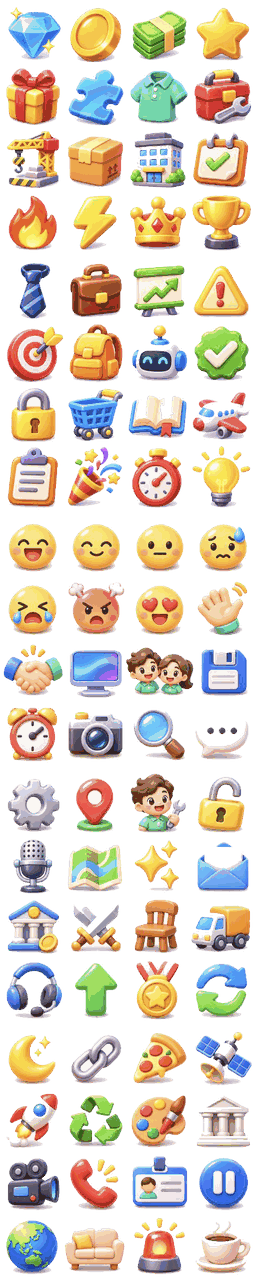
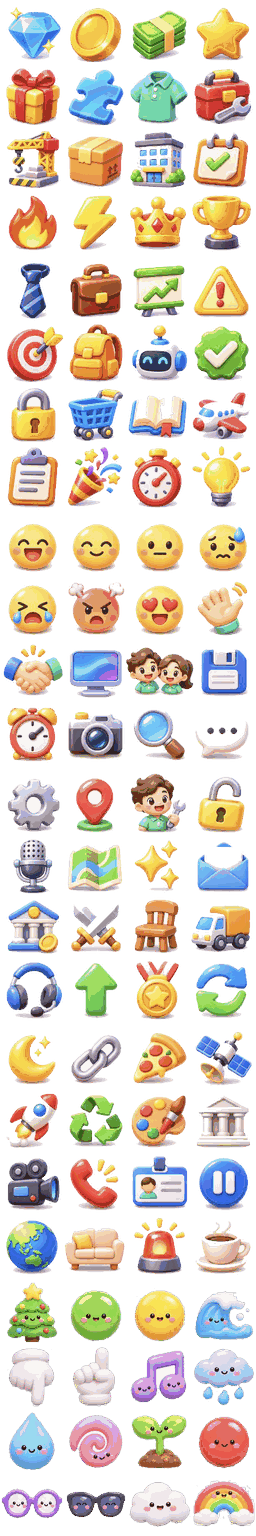
v3.12: 유아틱 아이콘 6번째 시트(🎄🟢🟡🌊👇👆 등 16종), gi.png 24행, Jua 라이선스 표기
Claude-Session: https://claude.ai/code/session_01Cv29e3NfFuCjychukHjqmT

diff --git a/index.html b/index.html
@@ -1859,12 +1859,12 @@ body{font-family:var(--b);letter-spacing:-.15px}
 #load .s{color:#2a2a6a!important;font-weight:900!important}
 #ldTipCard{background:rgba(255,255,255,.8)!important;border:1.5px solid #fff!important}
 #load #ldTip{color:#2a2a5a!important}
-#ldCart{width:40px!important;height:40px!important;top:-10px!important;background:url(gi.png) 33.333% 10.5263%/400% 2000% no-repeat;filter:drop-shadow(0 3px 3px rgba(0,0,0,.3))!important}
+#ldCart{width:40px!important;height:40px!important;top:-10px!important;background:url(gi.png) 33.333% 8.6957%/400% 2400% no-repeat;filter:drop-shadow(0 3px 3px rgba(0,0,0,.3))!important}
 #ldCart>*{display:none!important}
 #ldDoor{display:none!important}
 /* v3.12: 상단 HUD 아이콘도 같은 그림으로 — 돈(동전)·보석·별 */
-#cashPill>svg.ic{display:none!important}#cashPill::before{content:"";flex:none;width:26px;height:26px;background:url(gi.png) 33.333% 0/400% 2000% no-repeat;filter:drop-shadow(0 1px 1px rgba(0,0,0,.2))}
-#gemPill .ci{display:none!important}#gemPill::before{content:"";flex:none;width:24px;height:24px;background:url(gi.png) 0 0/400% 2000% no-repeat}
+#cashPill>svg.ic{display:none!important}#cashPill::before{content:"";flex:none;width:26px;height:26px;background:url(gi.png) 33.333% 0/400% 2400% no-repeat;filter:drop-shadow(0 1px 1px rgba(0,0,0,.2))}
+#gemPill .ci{display:none!important}#gemPill::before{content:"";flex:none;width:24px;height:24px;background:url(gi.png) 0 0/400% 2400% no-repeat}
 #v262Go,#tStart{letter-spacing:.5px}
 #modal #mbox #v262Go.hubCta,#modal #mbox #dayGo{background:linear-gradient(#ffe36b,#ffb020 60%,#f39a0a)!important;box-shadow:inset 0 3px 0 rgba(255,255,255,.7),0 6px 0 #b86400,0 12px 22px rgba(180,100,0,.35)!important;color:#fff!important;text-shadow:0 2px 0 #a85a00!important;border:3px solid #fff!important}
 #load .ldMid{flex:1 1 auto!important;justify-content:flex-end!important;padding-bottom:calc(env(safe-area-inset-bottom,0px) + 7vh)!important}
@@ -7110,7 +7110,7 @@ function ftueOn(){ return !window.__NOFTUE && S.day===0 && !(S.ftue&&S.ftue.done
   if(S.ftueGo&&S.day>=1&&!(S.ftue&&S.ftue.done)){ S.ftue={done:1}; setTimeout(()=>{ try{ bigBanner('🔓 메뉴가 열렸어요','업그레이드 · 직원 · 미션으로 매장을 키워보세요'); snd('level_up',0.5,1.1); }catch(_){} },400); try{ save(); }catch(_){} }
   return _s.apply(this,arguments); }; })();
 try{ const st=document.createElement('style'); st.textContent='body.ftue #bbar,body.ftue #shopBtn,body.ftue #branchBtn,body.ftue #camctl,body.ftue #saveChip,body.ftue #intBtn,body.ftue #back{visibility:hidden!important;pointer-events:none!important}'+
-  '#ftArrow{position:fixed;left:0;top:0;z-index:6;pointer-events:none;font-size:38px;line-height:1;transform:translate(-50%,-100%);filter:drop-shadow(0 3px 2px rgba(0,0,0,.45));display:none}#ftArrow i{display:block;font-style:normal;animation:ftb .6s ease-in-out infinite alternate}@keyframes ftb{from{transform:translateY(0)}to{transform:translateY(-12px)}}'+
+  '#ftArrow .gi{animation:none!important}#ftArrow{position:fixed;left:0;top:0;z-index:6;pointer-events:none;font-size:38px;line-height:1;transform:translate(-50%,-100%);filter:drop-shadow(0 3px 2px rgba(0,0,0,.45));display:none}#ftArrow i{display:block;font-style:normal;animation:ftb .6s ease-in-out infinite alternate}@keyframes ftb{from{transform:translateY(0)}to{transform:translateY(-12px)}}'+
   '#mbox #dayGo{position:sticky;bottom:0;z-index:3}'+'#ftHint{position:fixed;left:50%;top:calc(env(safe-area-inset-top) + 174px);transform:translateX(-50%);z-index:6;pointer-events:none;background:#ffd23f;color:#3a2600;font:900 15px var(--b);padding:9px 16px;border-radius:20px;box-shadow:0 4px 0 #b88a00;width:-webkit-max-content;width:max-content;max-width:calc(100vw - 20px);box-sizing:border-box;white-space:normal;line-height:1.25;text-align:center;word-break:keep-all;overflow-wrap:anywhere;display:none}';
   document.head.appendChild(st);
   const a=document.createElement('div'); a.id='ftArrow'; a.innerHTML='<i>👇</i>'; document.body.appendChild(a);
@@ -7243,7 +7243,7 @@ try{ const st=document.createElement('style'); st.textContent='#v311g{position:f
   ];
   GD.L.forEach(function(s,i){ if(X[i]) Object.assign(s,X[i]); });
   const st=document.createElement('style'); st.textContent=
-    '#v312hand{position:fixed;z-index:8;pointer-events:none;font-size:34px;line-height:1;display:none;filter:drop-shadow(0 3px 3px rgba(0,0,0,.35));animation:v312b .7s ease-in-out infinite}@keyframes v312b{50%{translate:0 -10px}}'+
+    '#v312hand .gi{width:42px!important;height:42px!important}#v312hand{position:fixed;z-index:8;pointer-events:none;font-size:34px;line-height:1;display:none;filter:drop-shadow(0 3px 3px rgba(0,0,0,.35));animation:v312b .7s ease-in-out infinite}@keyframes v312b{50%{translate:0 -10px}}'+
     '.v312ring{outline:3px solid #ffd23f!important;outline-offset:2px;box-shadow:0 0 0 6px rgba(255,210,63,.35)!important;animation:v312r 1s ease-in-out infinite!important}@keyframes v312r{50%{outline-color:#fff3b0;box-shadow:0 0 0 10px rgba(255,210,63,.15)}}'+
     '#v312card{position:fixed;left:50%;transform:translateX(-50%);z-index:9;width:min(88vw,330px);padding:10px 12px 11px;border-radius:16px;background:#fffaf0;border:2px solid #f0c25a;box-shadow:0 8px 22px rgba(40,25,5,.28);font:800 12.5px/1.45 var(--b);color:#4a3418;display:none;animation:v312in .35s cubic-bezier(.2,1.4,.4,1)}@keyframes v312in{from{opacity:0;translate:0 -12px}}'+
     '#v312card h5{margin:0 0 3px;font:900 11px var(--b);color:#c07a10;letter-spacing:.3px}#v312card b{display:block;font:900 14.5px var(--b);color:#2a1a08;margin-bottom:3px}#v312card .tm{margin-top:6px;padding:5px 8px;border-radius:10px;background:#fff1cc;font:800 11.5px/1.4 var(--b);color:#6a4a10}#v312card .ok{margin-top:8px;display:flex;gap:6px}#v312card .ok button{flex:1;min-height:36px;border:0;border-radius:11px;font:900 13px var(--b);color:#fff;background:linear-gradient(#ffc43a,#f09a10);box-shadow:0 3px 0 #b86a00}#v312card .ok button.gy{background:#e8ddc8;color:#6a5030;box-shadow:0 3px 0 #c9b896}'+
@@ -7357,7 +7357,7 @@ try{ const st=document.createElement('style'); const I=(c,r)=>'background:url(ui
   '#v285brBtn>svg{display:none!important}#v285brBtn::before{content:"";display:block;width:30px;height:30px;margin:0 auto;'+I(2,2)+'}';
   document.head.appendChild(st); }catch(e){}
 /* v3.12: 이모지 → 게임 그림 아이콘(gi.png 4×4, ChatGPT). 창(svgify)·토스트·HUD·말풍선 글자 속 이모지를 같은 화풍 그림으로 바꾼다 */
-var GI={'💎':[0,0],'💜':[0,0],'🪙':[1,0],'💵':[2,0],'💰':[2,0],'💲':[2,0],'⭐':[3,0],'🌟':[3,0],'🎁':[0,1],'🧩':[1,1],'👕':[2,1],'🔧':[3,1],'🛠':[3,1],'🛠':[3,1],
+var GI={'🎄':[0,20],'🟢':[1,20],'🟡':[2,20],'🌊':[3,20],'👇':[0,21],'👆':[1,21],'♪':[2,21],'🎵':[2,21],'🎶':[2,21],'🌧':[3,21],'🌧':[3,21],'💧':[0,22],'🌀':[1,22],'🌱':[2,22],'🔴':[3,22],'👓':[0,23],'🕶':[1,23],'🕶':[1,23],'☁':[2,23],'☁':[2,23],'🌈':[3,23],'💎':[0,0],'💜':[0,0],'🪙':[1,0],'💵':[2,0],'💰':[2,0],'💲':[2,0],'⭐':[3,0],'🌟':[3,0],'🎁':[0,1],'🧩':[1,1],'👕':[2,1],'🔧':[3,1],'🛠':[3,1],'🛠':[3,1],
   '🏗':[0,2],'🏗':[0,2],'📦':[1,2],'🏢':[2,2],'🏬':[2,2],'🏪':[2,2],'📅':[3,2],'📆':[3,2],'🗓':[3,2],'🔥':[0,3],'⚡':[1,3],'⚡':[1,3],'👑':[2,3],'🏆':[3,3],
   '👔':[0,4],'💼':[1,4],'📈':[2,4],'📊':[2,4],'⚠':[3,4],'⚠':[3,4],'🎯':[0,5],'🎒':[1,5],'🤖':[2,5],'✅':[3,5],'🔒':[0,6],'🛒':[1,6],'🛍':[1,6],'🛍':[1,6],'📖':[2,6],'📚':[2,6],'✈':[3,6],'✈':[3,6],
   '📋':[0,7],'📝':[0,7],'🎉':[1,7],'🎊':[1,7],'⏱':[2,7],'⏱':[2,7],'⏳':[2,7],'💡':[3,7],
@@ -7377,8 +7377,8 @@ var GI={'💎':[0,0],'💜':[0,0],'🪙':[1,0],'💵':[2,0],'💰':[2,0],'💲':
   '📘':[2,6],'📄':[0,7],'📂':[0,7],'🧾':[0,7],'🧳':[1,5],'🙏':[3,9],'🔋':[1,15],'💳':[2,0],'💸':[2,0],'❤':[2,9],'❤':[2,9],'💗':[2,9],'💔':[0,9],'❌':[3,4],'⛔':[3,4],'🙅':[3,4],'🧰':[3,1],'👜':[1,5],'⌚':[2,7],'👍':[3,9],'✋':[3,9],'🙈':[3,9],'🎓':[3,3],'📣':[2,19],'🧪':[3,7],'🔬':[3,7],'🏷':[2,18],'🏷':[2,18],'🚶':[2,10],'🧍':[2,10],'🗼':[0,19],'🗽':[0,19],'🛂':[3,6],'🛡':[0,6],'🛡':[0,6],'⚖':[0,14],'⚖':[0,14],'🗑':[1,2],'🗑':[1,2],'🚪':[2,2],'🔌':[1,15]};
 var GIK=Object.keys(GI).sort(function(a,b){ return b.length-a.length; });
 var GIRE=new RegExp('('+GIK.map(function(k){ return k.replace(/[.*+?^${}()|[\]\\]/g,'\\$&'); }).join('|')+')\\uFE0F?','g');
-function giSpan(k){ var p=GI[k]||GI[k.replace(//g,'')]; return '<i class="gi" style="background-position:'+(p[0]*100/3).toFixed(3)+'% '+(p[1]*100/19).toFixed(4)+'%"></i>'; }
-try{ const st=document.createElement('style'); st.textContent='.psn .gi,.psn .v29i,em .gi,small .gi,.tg .gi{width:1.05em!important;height:1.05em!important;vertical-align:-.2em}.psn{display:inline-flex!important;align-items:center;gap:2px}.gi{display:inline-block;width:1.2em;height:1.2em;vertical-align:-.24em;margin:0 .06em;background-image:url(gi.png);background-size:400% 2000%;background-repeat:no-repeat;font-style:normal;flex:none}'; document.head.appendChild(st); }catch(e){}
+function giSpan(k){ var p=GI[k]||GI[k.replace(//g,'')]; return '<i class="gi" style="background-position:'+(p[0]*100/3).toFixed(3)+'% '+(p[1]*100/23).toFixed(4)+'%"></i>'; }
+try{ const st=document.createElement('style'); st.textContent='.psn .gi,.psn .v29i,em .gi,small .gi,.tg .gi{width:1.05em!important;height:1.05em!important;vertical-align:-.2em}.psn{display:inline-flex!important;align-items:center;gap:2px}.gi{display:inline-block;width:1.2em;height:1.2em;vertical-align:-.24em;margin:0 .06em;background-image:url(gi.png);background-size:400% 2400%;background-repeat:no-repeat;font-style:normal;flex:none}'; document.head.appendChild(st); }catch(e){}
 (function(){ try{
   const SKIP={SCRIPT:1,STYLE:1,TEXTAREA:1,INPUT:1,CANVAS:1,svg:1,SVG:1,TITLE:1};
   function fixText(t){ try{ const v=t.nodeValue; if(!v||v.length>600) return; GIRE.lastIndex=0; if(!GIRE.test(v)) return; const p=t.parentNode; if(!p||SKIP[p.nodeName]||(p.closest&&p.closest('svg,[contenteditable],option,select,title'))) return;

diff --git a/tech.html b/tech.html
@@ -1859,12 +1859,12 @@ body{font-family:var(--b);letter-spacing:-.15px}
 #load .s{color:#2a2a6a!important;font-weight:900!important}
 #ldTipCard{background:rgba(255,255,255,.8)!important;border:1.5px solid #fff!important}
 #load #ldTip{color:#2a2a5a!important}
-#ldCart{width:40px!important;height:40px!important;top:-10px!important;background:url(gi.png) 33.333% 10.5263%/400% 2000% no-repeat;filter:drop-shadow(0 3px 3px rgba(0,0,0,.3))!important}
+#ldCart{width:40px!important;height:40px!important;top:-10px!important;background:url(gi.png) 33.333% 8.6957%/400% 2400% no-repeat;filter:drop-shadow(0 3px 3px rgba(0,0,0,.3))!important}
 #ldCart>*{display:none!important}
 #ldDoor{display:none!important}
 /* v3.12: 상단 HUD 아이콘도 같은 그림으로 — 돈(동전)·보석·별 */
-#cashPill>svg.ic{display:none!important}#cashPill::before{content:"";flex:none;width:26px;height:26px;background:url(gi.png) 33.333% 0/400% 2000% no-repeat;filter:drop-shadow(0 1px 1px rgba(0,0,0,.2))}
-#gemPill .ci{display:none!important}#gemPill::before{content:"";flex:none;width:24px;height:24px;background:url(gi.png) 0 0/400% 2000% no-repeat}
+#cashPill>svg.ic{display:none!important}#cashPill::before{content:"";flex:none;width:26px;height:26px;background:url(gi.png) 33.333% 0/400% 2400% no-repeat;filter:drop-shadow(0 1px 1px rgba(0,0,0,.2))}
+#gemPill .ci{display:none!important}#gemPill::before{content:"";flex:none;width:24px;height:24px;background:url(gi.png) 0 0/400% 2400% no-repeat}
 #v262Go,#tStart{letter-spacing:.5px}
 #modal #mbox #v262Go.hubCta,#modal #mbox #dayGo{background:linear-gradient(#ffe36b,#ffb020 60%,#f39a0a)!important;box-shadow:inset 0 3px 0 rgba(255,255,255,.7),0 6px 0 #b86400,0 12px 22px rgba(180,100,0,.35)!important;color:#fff!important;text-shadow:0 2px 0 #a85a00!important;border:3px solid #fff!important}
 #load .ldMid{flex:1 1 auto!important;justify-content:flex-end!important;padding-bottom:calc(env(safe-area-inset-bottom,0px) + 7vh)!important}
@@ -7110,7 +7110,7 @@ function ftueOn(){ return !window.__NOFTUE && S.day===0 && !(S.ftue&&S.ftue.done
   if(S.ftueGo&&S.day>=1&&!(S.ftue&&S.ftue.done)){ S.ftue={done:1}; setTimeout(()=>{ try{ bigBanner('🔓 메뉴가 열렸어요','업그레이드 · 직원 · 미션으로 매장을 키워보세요'); snd('level_up',0.5,1.1); }catch(_){} },400); try{ save(); }catch(_){} }
   return _s.apply(this,arguments); }; })();
 try{ const st=document.createElement('style'); st.textContent='body.ftue #bbar,body.ftue #shopBtn,body.ftue #branchBtn,body.ftue #camctl,body.ftue #saveChip,body.ftue #intBtn,body.ftue #back{visibility:hidden!important;pointer-events:none!important}'+
-  '#ftArrow{position:fixed;left:0;top:0;z-index:6;pointer-events:none;font-size:38px;line-height:1;transform:translate(-50%,-100%);filter:drop-shadow(0 3px 2px rgba(0,0,0,.45));display:none}#ftArrow i{display:block;font-style:normal;animation:ftb .6s ease-in-out infinite alternate}@keyframes ftb{from{transform:translateY(0)}to{transform:translateY(-12px)}}'+
+  '#ftArrow .gi{animation:none!important}#ftArrow{position:fixed;left:0;top:0;z-index:6;pointer-events:none;font-size:38px;line-height:1;transform:translate(-50%,-100%);filter:drop-shadow(0 3px 2px rgba(0,0,0,.45));display:none}#ftArrow i{display:block;font-style:normal;animation:ftb .6s ease-in-out infinite alternate}@keyframes ftb{from{transform:translateY(0)}to{transform:translateY(-12px)}}'+
   '#mbox #dayGo{position:sticky;bottom:0;z-index:3}'+'#ftHint{position:fixed;left:50%;top:calc(env(safe-area-inset-top) + 174px);transform:translateX(-50%);z-index:6;pointer-events:none;background:#ffd23f;color:#3a2600;font:900 15px var(--b);padding:9px 16px;border-radius:20px;box-shadow:0 4px 0 #b88a00;width:-webkit-max-content;width:max-content;max-width:calc(100vw - 20px);box-sizing:border-box;white-space:normal;line-height:1.25;text-align:center;word-break:keep-all;overflow-wrap:anywhere;display:none}';
   document.head.appendChild(st);
   const a=document.createElement('div'); a.id='ftArrow'; a.innerHTML='<i>👇</i>'; document.body.appendChild(a);
@@ -7243,7 +7243,7 @@ try{ const st=document.createElement('style'); st.textContent='#v311g{position:f
   ];
   GD.L.forEach(function(s,i){ if(X[i]) Object.assign(s,X[i]); });
   const st=document.createElement('style'); st.textContent=
-    '#v312hand{position:fixed;z-index:8;pointer-events:none;font-size:34px;line-height:1;display:none;filter:drop-shadow(0 3px 3px rgba(0,0,0,.35));animation:v312b .7s ease-in-out infinite}@keyframes v312b{50%{translate:0 -10px}}'+
+    '#v312hand .gi{width:42px!important;height:42px!important}#v312hand{position:fixed;z-index:8;pointer-events:none;font-size:34px;line-height:1;display:none;filter:drop-shadow(0 3px 3px rgba(0,0,0,.35));animation:v312b .7s ease-in-out infinite}@keyframes v312b{50%{translate:0 -10px}}'+
     '.v312ring{outline:3px solid #ffd23f!important;outline-offset:2px;box-shadow:0 0 0 6px rgba(255,210,63,.35)!important;animation:v312r 1s ease-in-out infinite!important}@keyframes v312r{50%{outline-color:#fff3b0;box-shadow:0 0 0 10px rgba(255,210,63,.15)}}'+
     '#v312card{position:fixed;left:50%;transform:translateX(-50%);z-index:9;width:min(88vw,330px);padding:10px 12px 11px;border-radius:16px;background:#fffaf0;border:2px solid #f0c25a;box-shadow:0 8px 22px rgba(40,25,5,.28);font:800 12.5px/1.45 var(--b);color:#4a3418;display:none;animation:v312in .35s cubic-bezier(.2,1.4,.4,1)}@keyframes v312in{from{opacity:0;translate:0 -12px}}'+
     '#v312card h5{margin:0 0 3px;font:900 11px var(--b);color:#c07a10;letter-spacing:.3px}#v312card b{display:block;font:900 14.5px var(--b);color:#2a1a08;margin-bottom:3px}#v312card .tm{margin-top:6px;padding:5px 8px;border-radius:10px;background:#fff1cc;font:800 11.5px/1.4 var(--b);color:#6a4a10}#v312card .ok{margin-top:8px;display:flex;gap:6px}#v312card .ok button{flex:1;min-height:36px;border:0;border-radius:11px;font:900 13px var(--b);color:#fff;background:linear-gradient(#ffc43a,#f09a10);box-shadow:0 3px 0 #b86a00}#v312card .ok button.gy{background:#e8ddc8;color:#6a5030;box-shadow:0 3px 0 #c9b896}'+
@@ -7357,7 +7357,7 @@ try{ const st=document.createElement('style'); const I=(c,r)=>'background:url(ui
   '#v285brBtn>svg{display:none!important}#v285brBtn::before{content:"";display:block;width:30px;height:30px;margin:0 auto;'+I(2,2)+'}';
   document.head.appendChild(st); }catch(e){}
 /* v3.12: 이모지 → 게임 그림 아이콘(gi.png 4×4, ChatGPT). 창(svgify)·토스트·HUD·말풍선 글자 속 이모지를 같은 화풍 그림으로 바꾼다 */
-var GI={'💎':[0,0],'💜':[0,0],'🪙':[1,0],'💵':[2,0],'💰':[2,0],'💲':[2,0],'⭐':[3,0],'🌟':[3,0],'🎁':[0,1],'🧩':[1,1],'👕':[2,1],'🔧':[3,1],'🛠':[3,1],'🛠':[3,1],
+var GI={'🎄':[0,20],'🟢':[1,20],'🟡':[2,20],'🌊':[3,20],'👇':[0,21],'👆':[1,21],'♪':[2,21],'🎵':[2,21],'🎶':[2,21],'🌧':[3,21],'🌧':[3,21],'💧':[0,22],'🌀':[1,22],'🌱':[2,22],'🔴':[3,22],'👓':[0,23],'🕶':[1,23],'🕶':[1,23],'☁':[2,23],'☁':[2,23],'🌈':[3,23],'💎':[0,0],'💜':[0,0],'🪙':[1,0],'💵':[2,0],'💰':[2,0],'💲':[2,0],'⭐':[3,0],'🌟':[3,0],'🎁':[0,1],'🧩':[1,1],'👕':[2,1],'🔧':[3,1],'🛠':[3,1],'🛠':[3,1],
   '🏗':[0,2],'🏗':[0,2],'📦':[1,2],'🏢':[2,2],'🏬':[2,2],'🏪':[2,2],'📅':[3,2],'📆':[3,2],'🗓':[3,2],'🔥':[0,3],'⚡':[1,3],'⚡':[1,3],'👑':[2,3],'🏆':[3,3],
   '👔':[0,4],'💼':[1,4],'📈':[2,4],'📊':[2,4],'⚠':[3,4],'⚠':[3,4],'🎯':[0,5],'🎒':[1,5],'🤖':[2,5],'✅':[3,5],'🔒':[0,6],'🛒':[1,6],'🛍':[1,6],'🛍':[1,6],'📖':[2,6],'📚':[2,6],'✈':[3,6],'✈':[3,6],
   '📋':[0,7],'📝':[0,7],'🎉':[1,7],'🎊':[1,7],'⏱':[2,7],'⏱':[2,7],'⏳':[2,7],'💡':[3,7],
@@ -7377,8 +7377,8 @@ var GI={'💎':[0,0],'💜':[0,0],'🪙':[1,0],'💵':[2,0],'💰':[2,0],'💲':
   '📘':[2,6],'📄':[0,7],'📂':[0,7],'🧾':[0,7],'🧳':[1,5],'🙏':[3,9],'🔋':[1,15],'💳':[2,0],'💸':[2,0],'❤':[2,9],'❤':[2,9],'💗':[2,9],'💔':[0,9],'❌':[3,4],'⛔':[3,4],'🙅':[3,4],'🧰':[3,1],'👜':[1,5],'⌚':[2,7],'👍':[3,9],'✋':[3,9],'🙈':[3,9],'🎓':[3,3],'📣':[2,19],'🧪':[3,7],'🔬':[3,7],'🏷':[2,18],'🏷':[2,18],'🚶':[2,10],'🧍':[2,10],'🗼':[0,19],'🗽':[0,19],'🛂':[3,6],'🛡':[0,6],'🛡':[0,6],'⚖':[0,14],'⚖':[0,14],'🗑':[1,2],'🗑':[1,2],'🚪':[2,2],'🔌':[1,15]};
 var GIK=Object.keys(GI).sort(function(a,b){ return b.length-a.length; });
 var GIRE=new RegExp('('+GIK.map(function(k){ return k.replace(/[.*+?^${}()|[\]\\]/g,'\\$&'); }).join('|')+')\\uFE0F?','g');
-function giSpan(k){ var p=GI[k]||GI[k.replace(//g,'')]; return '<i class="gi" style="background-position:'+(p[0]*100/3).toFixed(3)+'% '+(p[1]*100/19).toFixed(4)+'%"></i>'; }
-try{ const st=document.createElement('style'); st.textContent='.psn .gi,.psn .v29i,em .gi,small .gi,.tg .gi{width:1.05em!important;height:1.05em!important;vertical-align:-.2em}.psn{display:inline-flex!important;align-items:center;gap:2px}.gi{display:inline-block;width:1.2em;height:1.2em;vertical-align:-.24em;margin:0 .06em;background-image:url(gi.png);background-size:400% 2000%;background-repeat:no-repeat;font-style:normal;flex:none}'; document.head.appendChild(st); }catch(e){}
+function giSpan(k){ var p=GI[k]||GI[k.replace(//g,'')]; return '<i class="gi" style="background-position:'+(p[0]*100/3).toFixed(3)+'% '+(p[1]*100/23).toFixed(4)+'%"></i>'; }
+try{ const st=document.createElement('style'); st.textContent='.psn .gi,.psn .v29i,em .gi,small .gi,.tg .gi{width:1.05em!important;height:1.05em!important;vertical-align:-.2em}.psn{display:inline-flex!important;align-items:center;gap:2px}.gi{display:inline-block;width:1.2em;height:1.2em;vertical-align:-.24em;margin:0 .06em;background-image:url(gi.png);background-size:400% 2400%;background-repeat:no-repeat;font-style:normal;flex:none}'; document.head.appendChild(st); }catch(e){}
 (function(){ try{
   const SKIP={SCRIPT:1,STYLE:1,TEXTAREA:1,INPUT:1,CANVAS:1,svg:1,SVG:1,TITLE:1};
   function fixText(t){ try{ const v=t.nodeValue; if(!v||v.length>600) return; GIRE.lastIndex=0; if(!GIRE.test(v)) return; const p=t.parentNode; if(!p||SKIP[p.nodeName]||(p.closest&&p.closest('svg,[contenteditable],option,select,title'))) return;

diff --git a/tech-test.html b/tech-test.html
@@ -5657,7 +5657,7 @@ function ftueOn(){ return !window.__NOFTUE && S.day===0 && !(S.ftue&&S.ftue.done
   if(S.ftueGo&&S.day>=1&&!(S.ftue&&S.ftue.done)){ S.ftue={done:1}; setTimeout(()=>{ try{ bigBanner('🔓 메뉴가 열렸어요','업그레이드 · 직원 · 미션으로 매장을 키워보세요'); snd('level_up',0.5,1.1); }catch(_){} },400); try{ save(); }catch(_){} }
   return _s.apply(this,arguments); }; })();
 try{ const st=document.createElement('style'); st.textContent='body.ftue #bbar,body.ftue #shopBtn,body.ftue #branchBtn,body.ftue #camctl,body.ftue #saveChip,body.ftue #intBtn,body.ftue #back{visibility:hidden!important;pointer-events:none!important}'+
-  '#ftArrow{position:fixed;left:0;top:0;z-index:6;pointer-events:none;font-size:38px;line-height:1;transform:translate(-50%,-100%);filter:drop-shadow(0 3px 2px rgba(0,0,0,.45));display:none}#ftArrow i{display:block;font-style:normal;animation:ftb .6s ease-in-out infinite alternate}@keyframes ftb{from{transform:translateY(0)}to{transform:translateY(-12px)}}'+
+  '#ftArrow .gi{animation:none!important}#ftArrow{position:fixed;left:0;top:0;z-index:6;pointer-events:none;font-size:38px;line-height:1;transform:translate(-50%,-100%);filter:drop-shadow(0 3px 2px rgba(0,0,0,.45));display:none}#ftArrow i{display:block;font-style:normal;animation:ftb .6s ease-in-out infinite alternate}@keyframes ftb{from{transform:translateY(0)}to{transform:translateY(-12px)}}'+
   '#mbox #dayGo{position:sticky;bottom:0;z-index:3}'+'#ftHint{position:fixed;left:50%;top:calc(env(safe-area-inset-top) + 174px);transform:translateX(-50%);z-index:6;pointer-events:none;background:#ffd23f;color:#3a2600;font:900 15px var(--b);padding:9px 16px;border-radius:20px;box-shadow:0 4px 0 #b88a00;width:-webkit-max-content;width:max-content;max-width:calc(100vw - 20px);box-sizing:border-box;white-space:normal;line-height:1.25;text-align:center;word-break:keep-all;overflow-wrap:anywhere;display:none}';
   document.head.appendChild(st);
   const a=document.createElement('div'); a.id='ftArrow'; a.innerHTML='<i>👇</i>'; document.body.appendChild(a);
@@ -5790,7 +5790,7 @@ try{ const st=document.createElement('style'); st.textContent='#v311g{position:f
   ];
   GD.L.forEach(function(s,i){ if(X[i]) Object.assign(s,X[i]); });
   const st=document.createElement('style'); st.textContent=
-    '#v312hand{position:fixed;z-index:8;pointer-events:none;font-size:34px;line-height:1;display:none;filter:drop-shadow(0 3px 3px rgba(0,0,0,.35));animation:v312b .7s ease-in-out infinite}@keyframes v312b{50%{translate:0 -10px}}'+
+    '#v312hand .gi{width:42px!important;height:42px!important}#v312hand{position:fixed;z-index:8;pointer-events:none;font-size:34px;line-height:1;display:none;filter:drop-shadow(0 3px 3px rgba(0,0,0,.35));animation:v312b .7s ease-in-out infinite}@keyframes v312b{50%{translate:0 -10px}}'+
     '.v312ring{outline:3px solid #ffd23f!important;outline-offset:2px;box-shadow:0 0 0 6px rgba(255,210,63,.35)!important;animation:v312r 1s ease-in-out infinite!important}@keyframes v312r{50%{outline-color:#fff3b0;box-shadow:0 0 0 10px rgba(255,210,63,.15)}}'+
     '#v312card{position:fixed;left:50%;transform:translateX(-50%);z-index:9;width:min(88vw,330px);padding:10px 12px 11px;border-radius:16px;background:#fffaf0;border:2px solid #f0c25a;box-shadow:0 8px 22px rgba(40,25,5,.28);font:800 12.5px/1.45 var(--b);color:#4a3418;display:none;animation:v312in .35s cubic-bezier(.2,1.4,.4,1)}@keyframes v312in{from{opacity:0;translate:0 -12px}}'+
     '#v312card h5{margin:0 0 3px;font:900 11px var(--b);color:#c07a10;letter-spacing:.3px}#v312card b{display:block;font:900 14.5px var(--b);color:#2a1a08;margin-bottom:3px}#v312card .tm{margin-top:6px;padding:5px 8px;border-radius:10px;background:#fff1cc;font:800 11.5px/1.4 var(--b);color:#6a4a10}#v312card .ok{margin-top:8px;display:flex;gap:6px}#v312card .ok button{flex:1;min-height:36px;border:0;border-radius:11px;font:900 13px var(--b);color:#fff;background:linear-gradient(#ffc43a,#f09a10);box-shadow:0 3px 0 #b86a00}#v312card .ok button.gy{background:#e8ddc8;color:#6a5030;box-shadow:0 3px 0 #c9b896}'+
@@ -5904,7 +5904,7 @@ try{ const st=document.createElement('style'); const I=(c,r)=>'background:url(ui
   '#v285brBtn>svg{display:none!important}#v285brBtn::before{content:"";display:block;width:30px;height:30px;margin:0 auto;'+I(2,2)+'}';
   document.head.appendChild(st); }catch(e){}
 /* v3.12: 이모지 → 게임 그림 아이콘(gi.png 4×4, ChatGPT). 창(svgify)·토스트·HUD·말풍선 글자 속 이모지를 같은 화풍 그림으로 바꾼다 */
-var GI={'💎':[0,0],'💜':[0,0],'🪙':[1,0],'💵':[2,0],'💰':[2,0],'💲':[2,0],'⭐':[3,0],'🌟':[3,0],'🎁':[0,1],'🧩':[1,1],'👕':[2,1],'🔧':[3,1],'🛠':[3,1],'🛠':[3,1],
+var GI={'🎄':[0,20],'🟢':[1,20],'🟡':[2,20],'🌊':[3,20],'👇':[0,21],'👆':[1,21],'♪':[2,21],'🎵':[2,21],'🎶':[2,21],'🌧':[3,21],'🌧':[3,21],'💧':[0,22],'🌀':[1,22],'🌱':[2,22],'🔴':[3,22],'👓':[0,23],'🕶':[1,23],'🕶':[1,23],'☁':[2,23],'☁':[2,23],'🌈':[3,23],'💎':[0,0],'💜':[0,0],'🪙':[1,0],'💵':[2,0],'💰':[2,0],'💲':[2,0],'⭐':[3,0],'🌟':[3,0],'🎁':[0,1],'🧩':[1,1],'👕':[2,1],'🔧':[3,1],'🛠':[3,1],'🛠':[3,1],
   '🏗':[0,2],'🏗':[0,2],'📦':[1,2],'🏢':[2,2],'🏬':[2,2],'🏪':[2,2],'📅':[3,2],'📆':[3,2],'🗓':[3,2],'🔥':[0,3],'⚡':[1,3],'⚡':[1,3],'👑':[2,3],'🏆':[3,3],
   '👔':[0,4],'💼':[1,4],'📈':[2,4],'📊':[2,4],'⚠':[3,4],'⚠':[3,4],'🎯':[0,5],'🎒':[1,5],'🤖':[2,5],'✅':[3,5],'🔒':[0,6],'🛒':[1,6],'🛍':[1,6],'🛍':[1,6],'📖':[2,6],'📚':[2,6],'✈':[3,6],'✈':[3,6],
   '📋':[0,7],'📝':[0,7],'🎉':[1,7],'🎊':[1,7],'⏱':[2,7],'⏱':[2,7],'⏳':[2,7],'💡':[3,7],
@@ -5924,8 +5924,8 @@ var GI={'💎':[0,0],'💜':[0,0],'🪙':[1,0],'💵':[2,0],'💰':[2,0],'💲':
   '📘':[2,6],'📄':[0,7],'📂':[0,7],'🧾':[0,7],'🧳':[1,5],'🙏':[3,9],'🔋':[1,15],'💳':[2,0],'💸':[2,0],'❤':[2,9],'❤':[2,9],'💗':[2,9],'💔':[0,9],'❌':[3,4],'⛔':[3,4],'🙅':[3,4],'🧰':[3,1],'👜':[1,5],'⌚':[2,7],'👍':[3,9],'✋':[3,9],'🙈':[3,9],'🎓':[3,3],'📣':[2,19],'🧪':[3,7],'🔬':[3,7],'🏷':[2,18],'🏷':[2,18],'🚶':[2,10],'🧍':[2,10],'🗼':[0,19],'🗽':[0,19],'🛂':[3,6],'🛡':[0,6],'🛡':[0,6],'⚖':[0,14],'⚖':[0,14],'🗑':[1,2],'🗑':[1,2],'🚪':[2,2],'🔌':[1,15]};
 var GIK=Object.keys(GI).sort(function(a,b){ return b.length-a.length; });
 var GIRE=new RegExp('('+GIK.map(function(k){ return k.replace(/[.*+?^${}()|[\]\\]/g,'\\$&'); }).join('|')+')\\uFE0F?','g');
-function giSpan(k){ var p=GI[k]||GI[k.replace(//g,'')]; return '<i class="gi" style="background-position:'+(p[0]*100/3).toFixed(3)+'% '+(p[1]*100/19).toFixed(4)+'%"></i>'; }
-try{ const st=document.createElement('style'); st.textContent='.psn .gi,.psn .v29i,em .gi,small .gi,.tg .gi{width:1.05em!important;height:1.05em!important;vertical-align:-.2em}.psn{display:inline-flex!important;align-items:center;gap:2px}.gi{display:inline-block;width:1.2em;height:1.2em;vertical-align:-.24em;margin:0 .06em;background-image:url(gi.png);background-size:400% 2000%;background-repeat:no-repeat;font-style:normal;flex:none}'; document.head.appendChild(st); }catch(e){}
+function giSpan(k){ var p=GI[k]||GI[k.replace(//g,'')]; return '<i class="gi" style="background-position:'+(p[0]*100/3).toFixed(3)+'% '+(p[1]*100/23).toFixed(4)+'%"></i>'; }
+try{ const st=document.createElement('style'); st.textContent='.psn .gi,.psn .v29i,em .gi,small .gi,.tg .gi{width:1.05em!important;height:1.05em!important;vertical-align:-.2em}.psn{display:inline-flex!important;align-items:center;gap:2px}.gi{display:inline-block;width:1.2em;height:1.2em;vertical-align:-.24em;margin:0 .06em;background-image:url(gi.png);background-size:400% 2400%;background-repeat:no-repeat;font-style:normal;flex:none}'; document.head.appendChild(st); }catch(e){}
 (function(){ try{
   const SKIP={SCRIPT:1,STYLE:1,TEXTAREA:1,INPUT:1,CANVAS:1,svg:1,SVG:1,TITLE:1};
   function fixText(t){ try{ const v=t.nodeValue; if(!v||v.length>600) return; GIRE.lastIndex=0; if(!GIRE.test(v)) return; const p=t.parentNode; if(!p||SKIP[p.nodeName]||(p.closest&&p.closest('svg,[contenteditable],option,select,title'))) return;

diff --git a/THIRD_PARTY_NOTICES.md b/THIRD_PARTY_NOTICES.md
@@ -46,3 +46,7 @@ AI 생성 이미지 유의점
 2. 효과음 5종의 출처
 3. AI 이미지: 생성 도구(피클 GPT)의 정확한 이름·계정 종류·약관 캡처
 4. Google Play 제출 시 AI 생성 콘텐츠 정책과 확률형 아이템 확률 공개 요건 재확인(정책은 수시로 바뀜)
+
+## Jua 폰트 (fonts/jua.woff2)
+- 출처: Woowahan Brothers "Jua" (npm @fontsource/jua), 게임에 쓰는 글자만 남긴 서브셋
+- 라이선스: SIL Open Font License 1.1 — 전문은 fonts/Jua-OFL.txt
